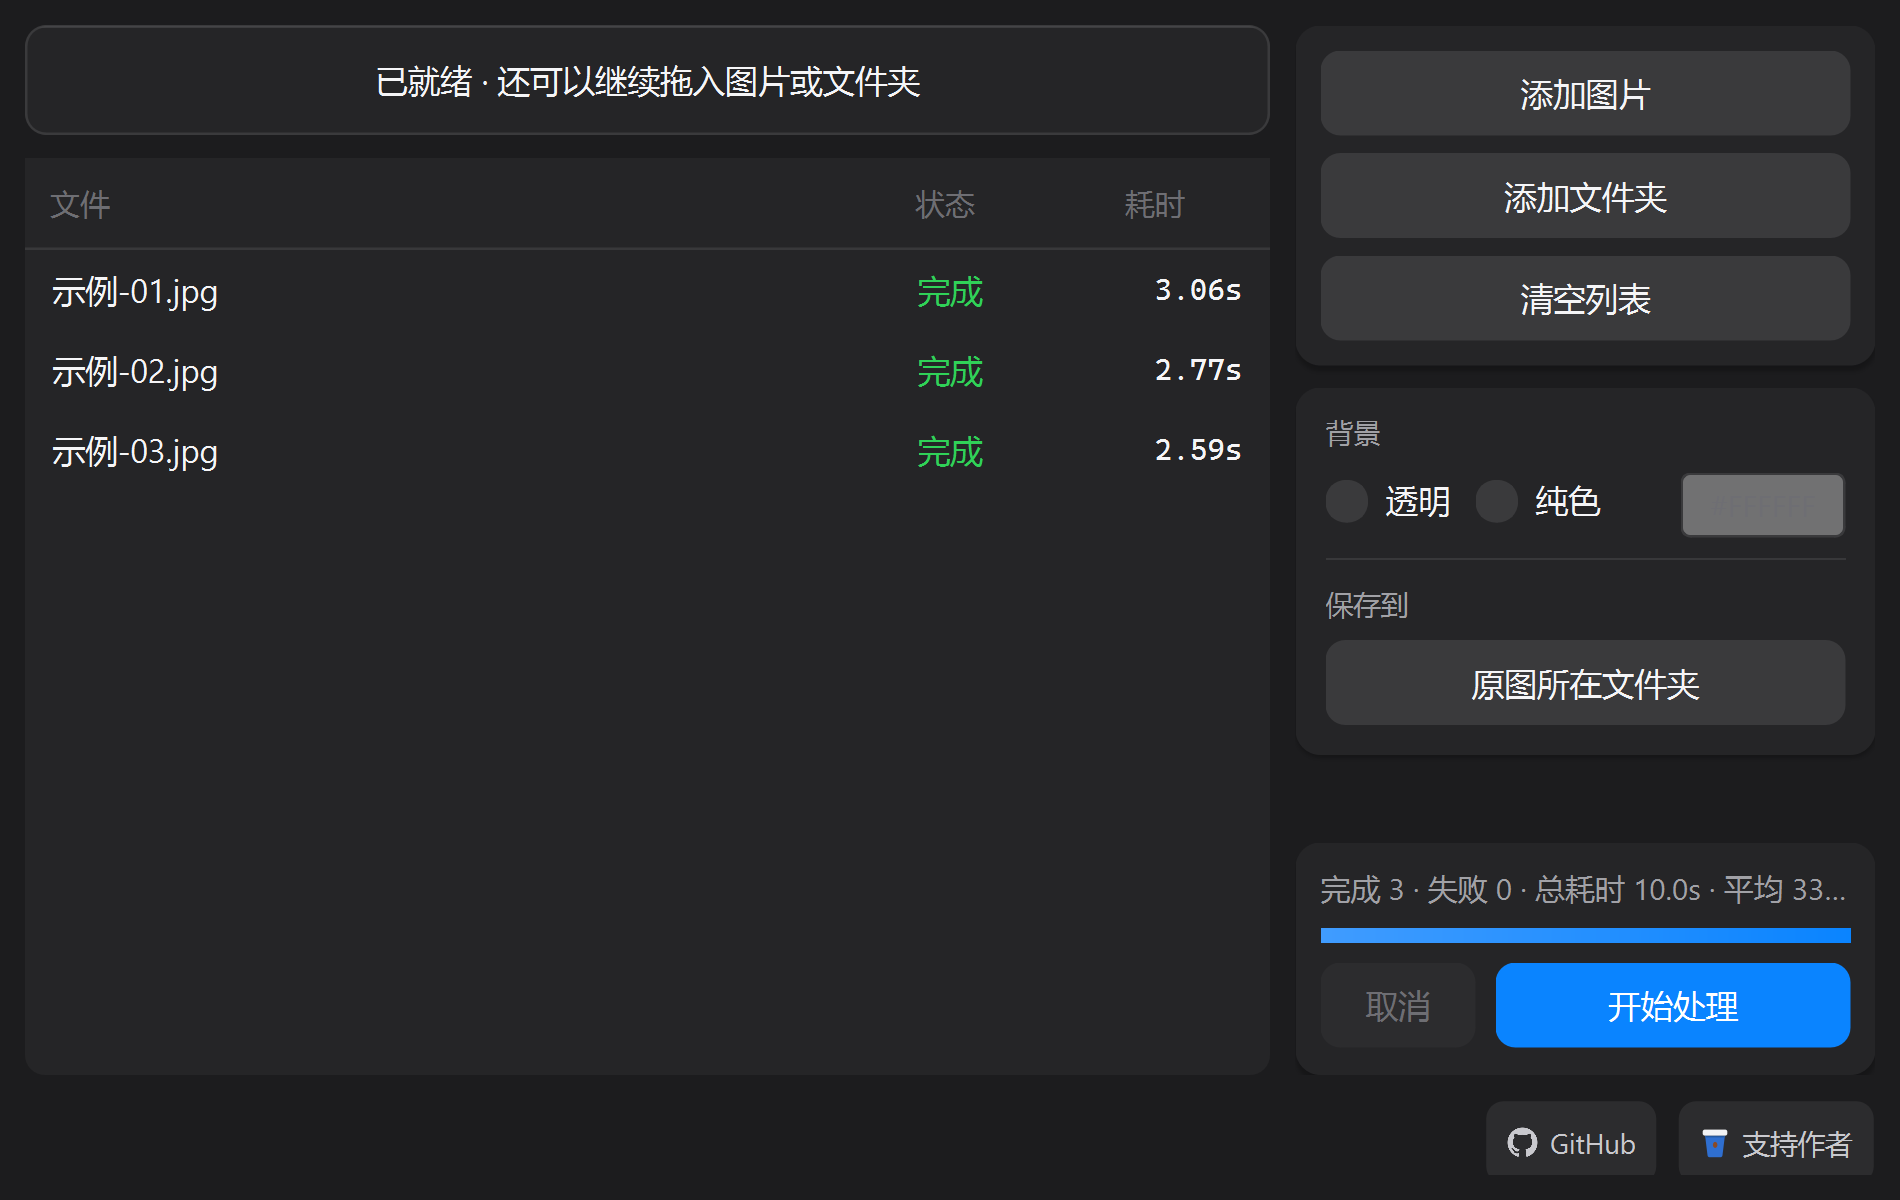
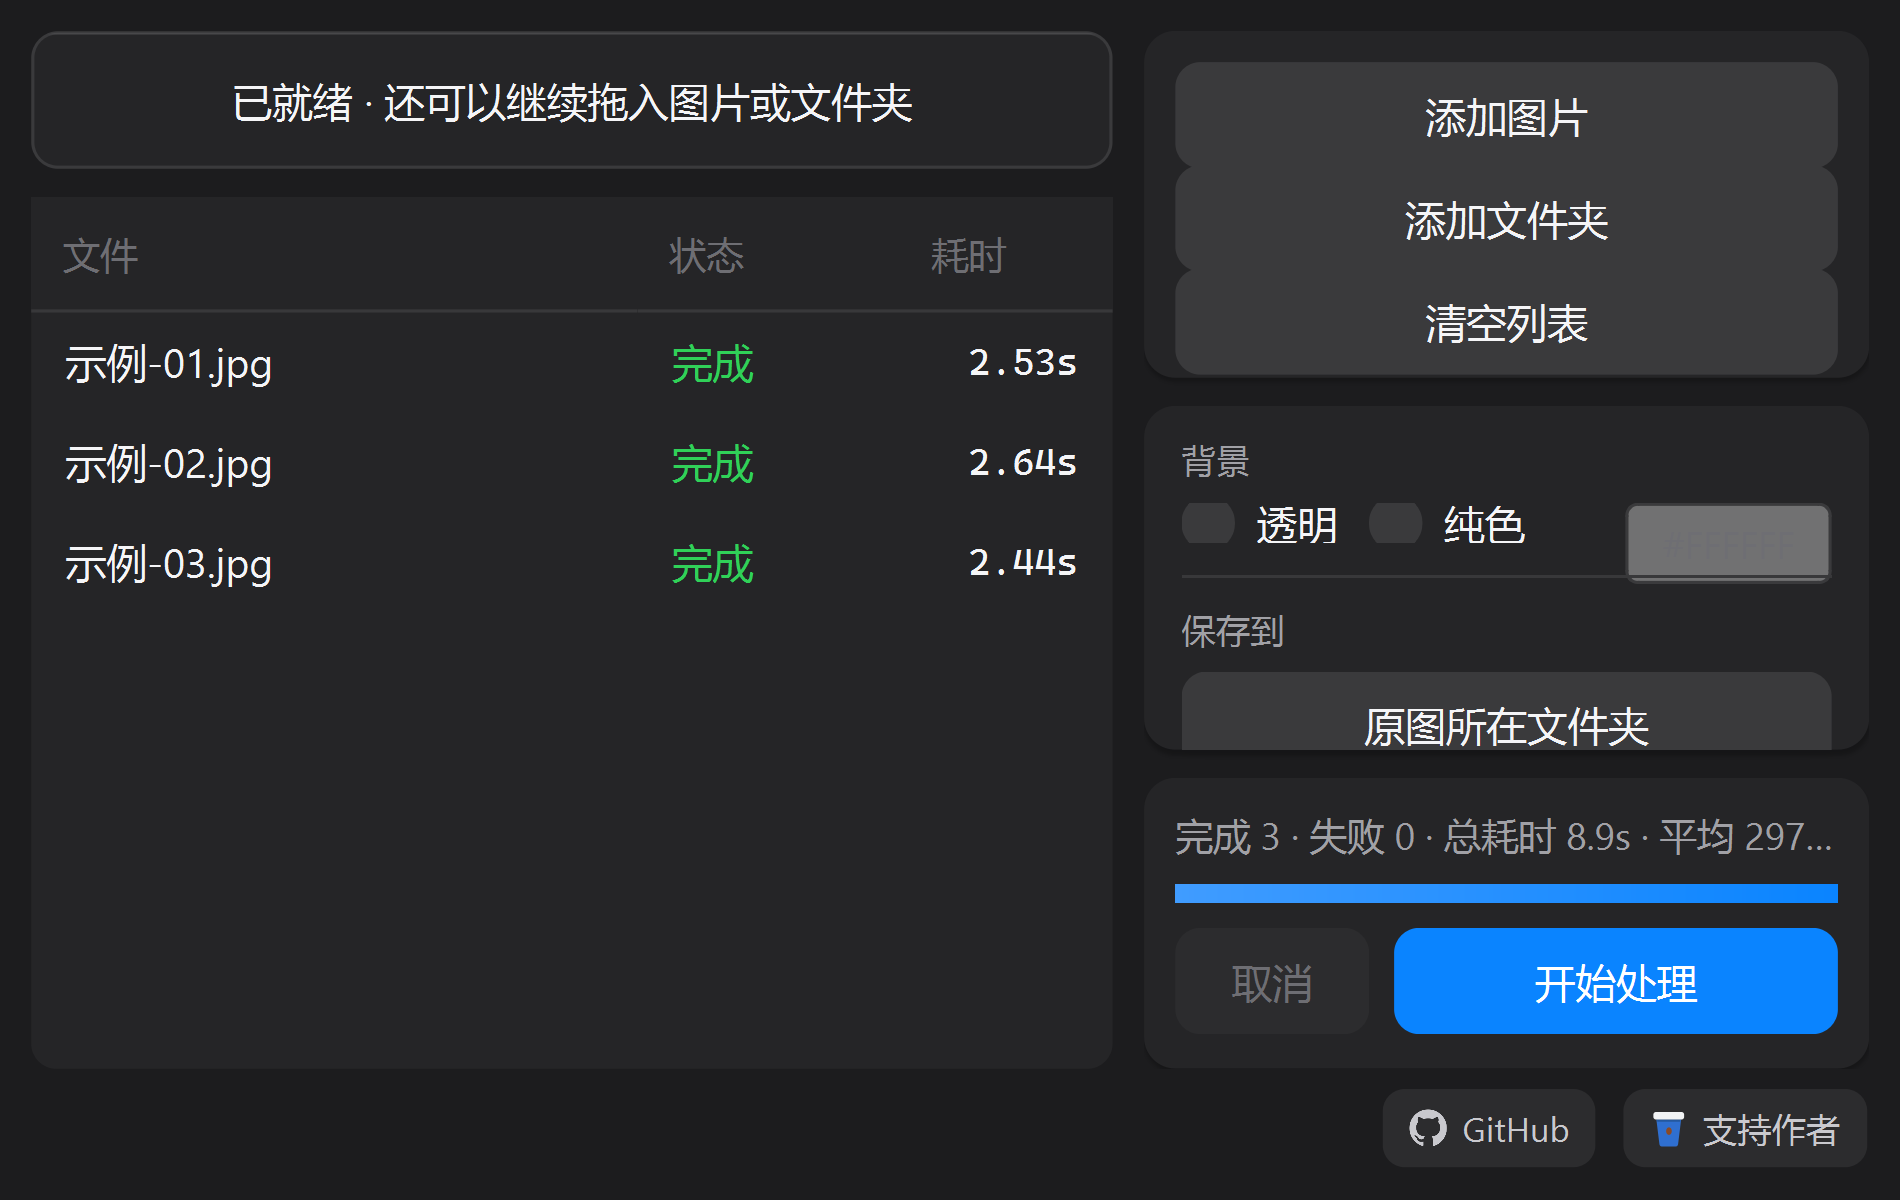
fix(ui): 右下角胶囊被 QSS 顶到 34px 导致底部裁切
- style.py 新增 #pill 规则：清掉通用 QPushButton 的 padding 6px + min-height 22px
- 新增 style.PILL_H 作为高度唯一来源，QSS min/max-height 与绘制同源
- FooterButton 设 objectName(pill)，HEIGHT 改用 style.PILL_H
- v0.6.6

diff --git a/app/ui/main_window.py b/app/ui/main_window.py
@@ -214,7 +214,7 @@ class FooterButton(QPushButton):
     伪状态切换是瞬时硬切；QIcon 每帧重建也比换画笔颜色贵（规矩见 anim.py）。
     """
 
-    HEIGHT = 26
+    HEIGHT = style.PILL_H  # 高度与 QSS 的 #pill min/max-height 同源，见 style.PILL_H
     RADIUS = 7
     PAD = 9
     GAP = 5
@@ -224,6 +224,9 @@ class FooterButton(QPushButton):
     def __init__(self, text: str, kind: str, parent: QWidget | None = None) -> None:
         super().__init__(text, parent)
         self._kind = kind
+        # objectName 供 QSS 单独清掉通用 QPushButton 的 padding / min-height，
+        # 否则胶囊会被撑到 34px 并溢出父容器底部（见 style.py 的 #pill 段）
+        self.setObjectName("pill")
         # 官方 mark 是白色剪影 PNG（scripts/make_git_icon.py 生成），绘制时染色
         self._mark = QPixmap(str(paths.resource_dir() / "assets" / "github.png"))
         self.setCursor(Qt.PointingHandCursor)
